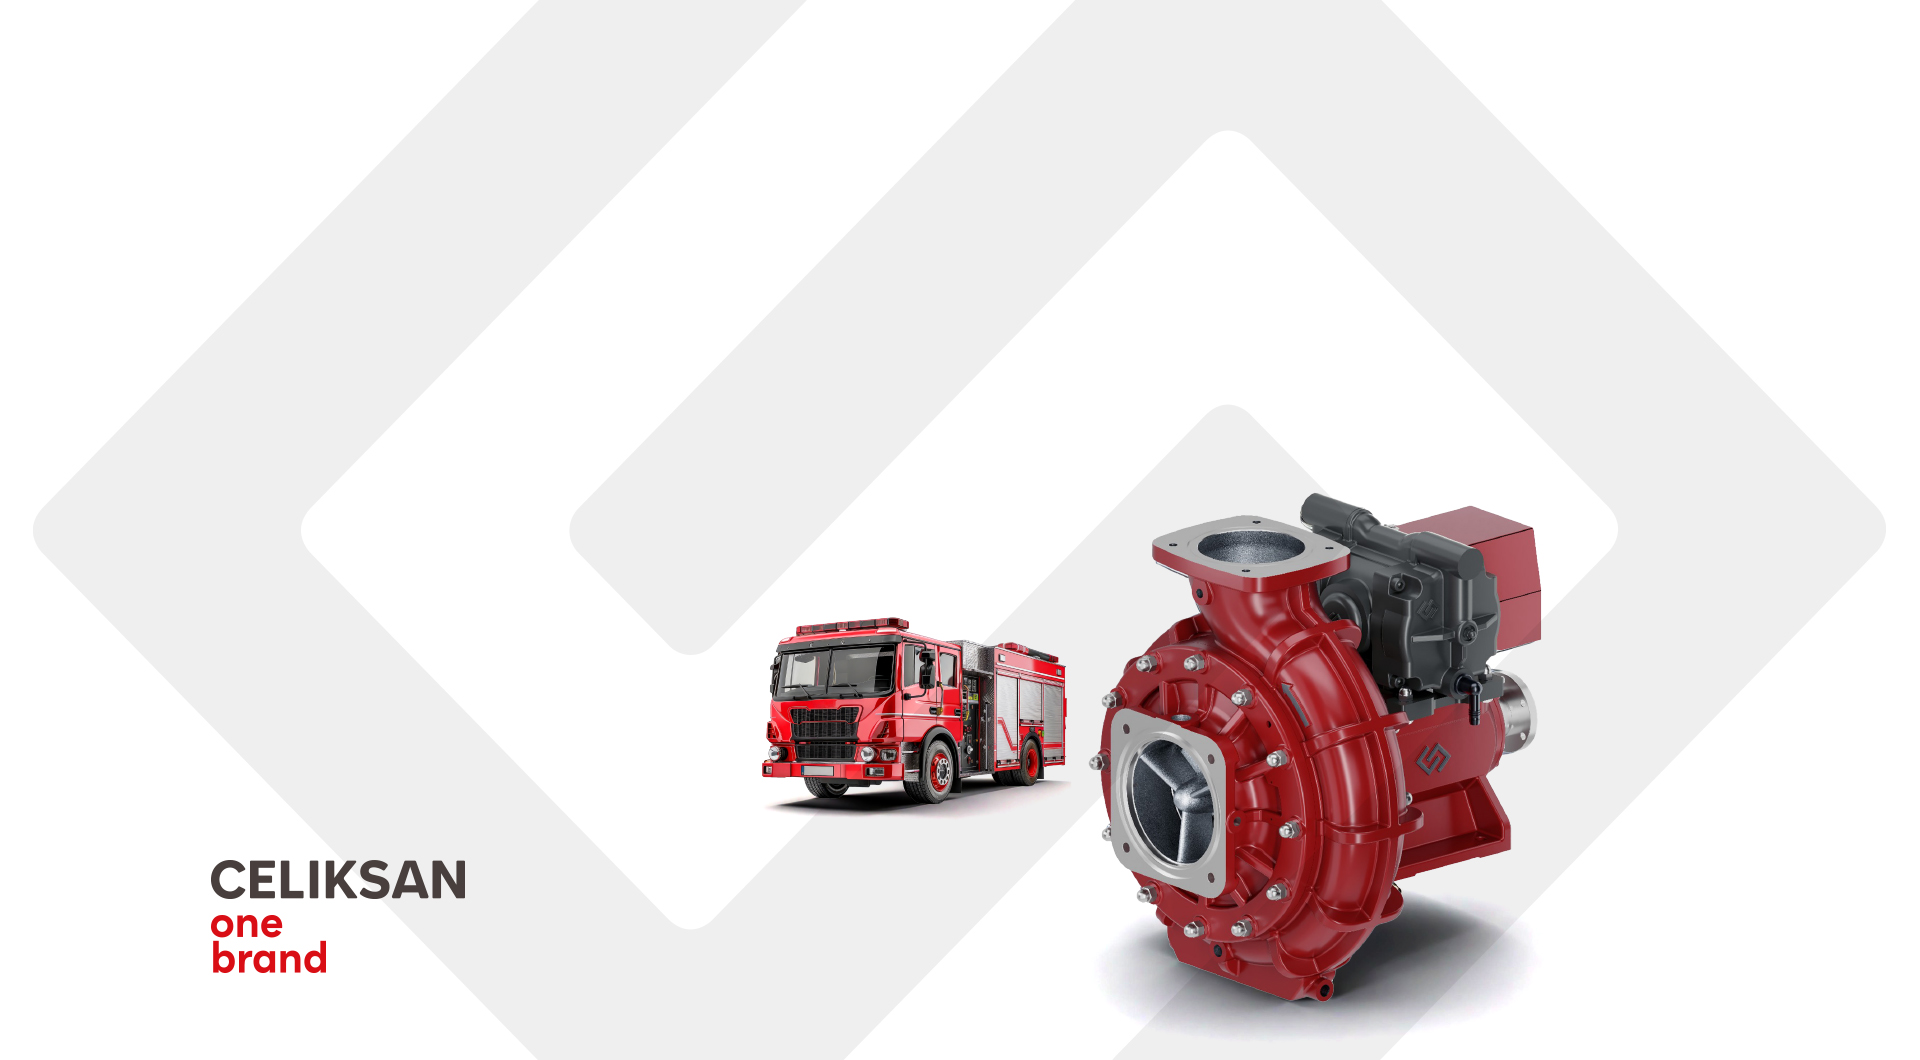
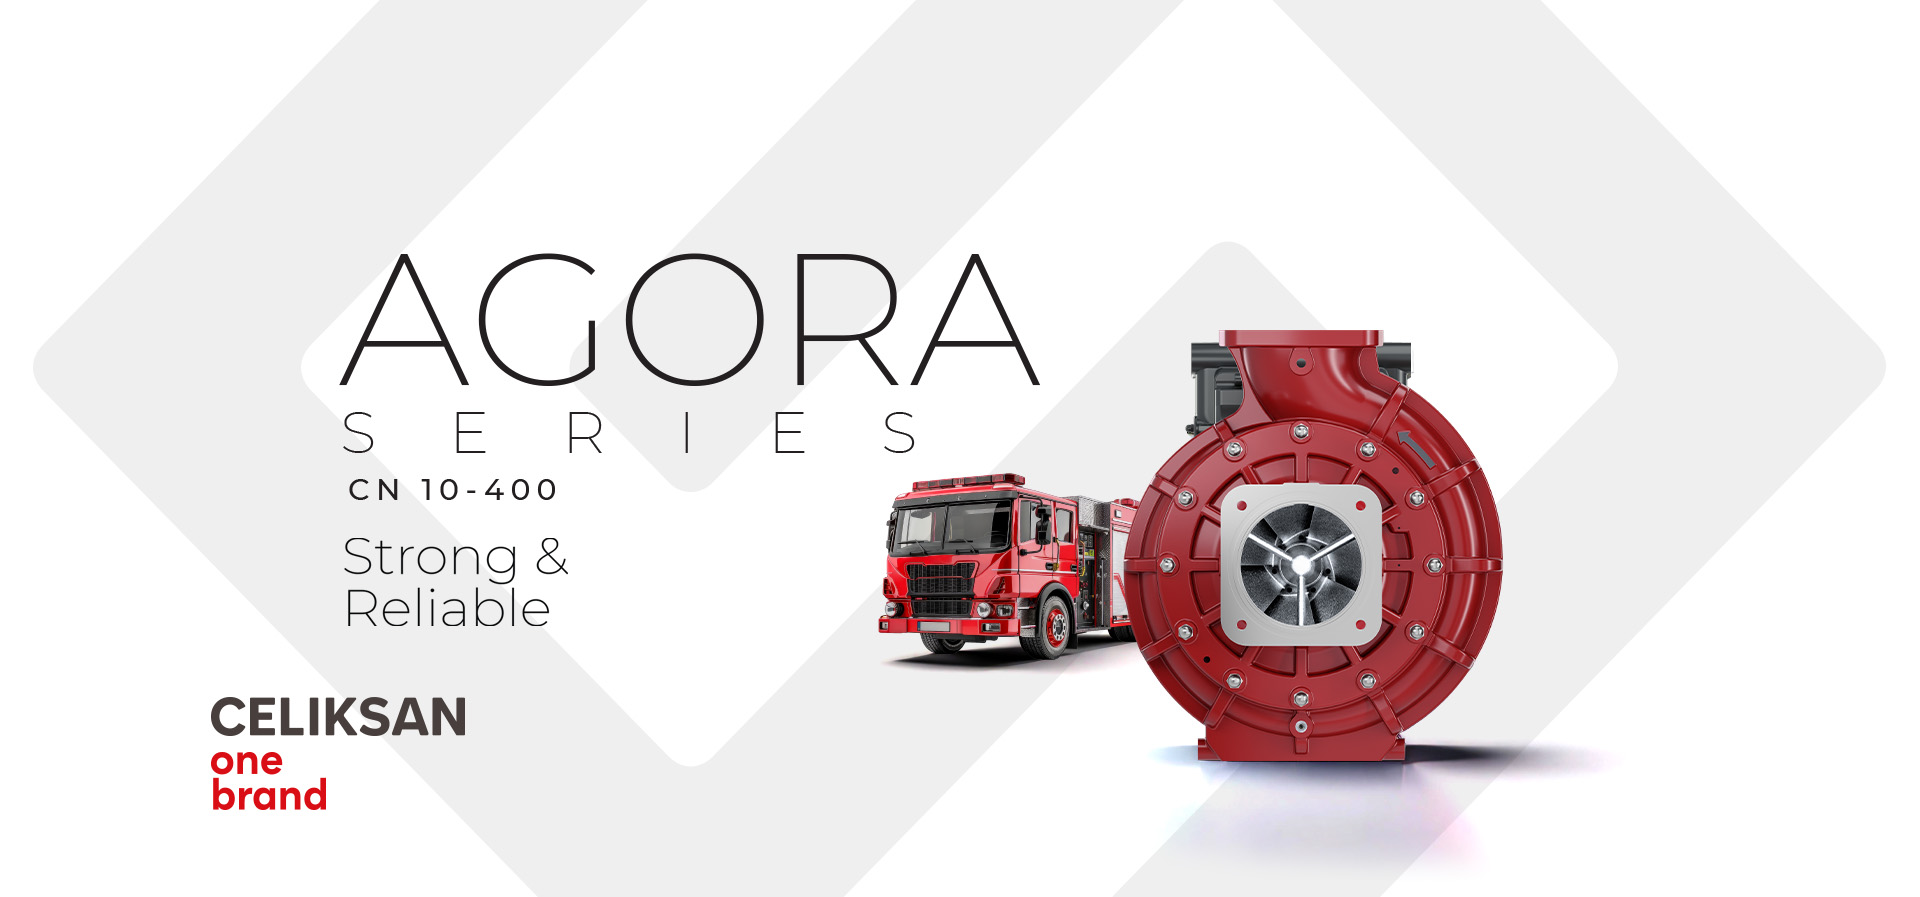
update

diff --git a/celiksan/products.html b/celiksan/products.html
@@ -122,10 +122,10 @@
         <!-- end col-12 -->
         <div class="col-12">
           <div class="project-box wow fadeIn" data-bg="#fff">
-            <figure> <a href="images/teos.jpg" data-fancybox><img src="images/teos.jpg" alt="Image"></a></figure>
+            <figure> <a href="images/agora.jpg" data-fancybox><img src="images/agora.jpg" alt="Image"></a></figure>
             <div class="content-box">
               <div class="inner"> <small>CN 10-100 | CNH 10-100 / 40-250</small>
-                <h3><span>Teos</span>Series</h3>
+                <h3><span>Agora</span>Series</h3>
                 <div class="custom-link"> <a href="teos-series.html">
                     <div class="lines"> <span></span> <span></span> </div>
                     <!-- end lines -->
